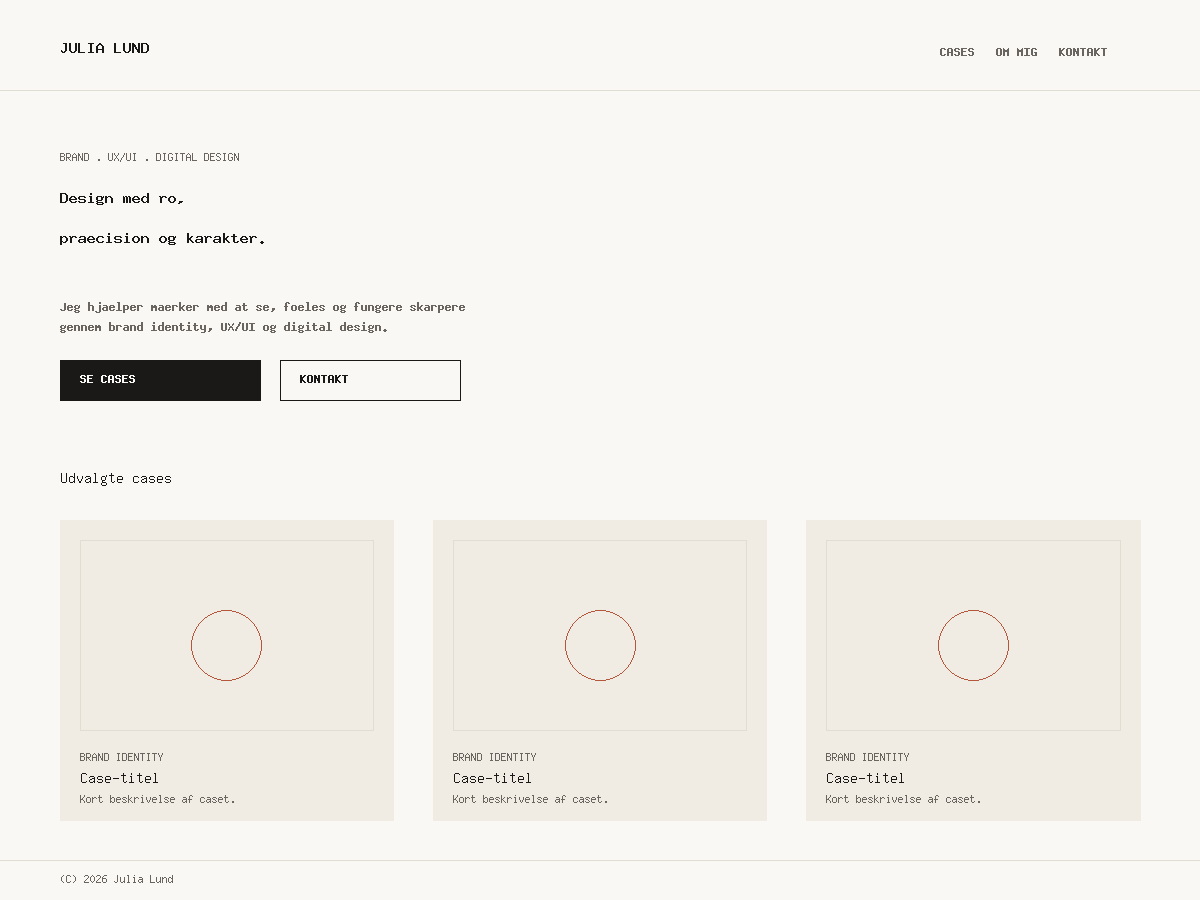
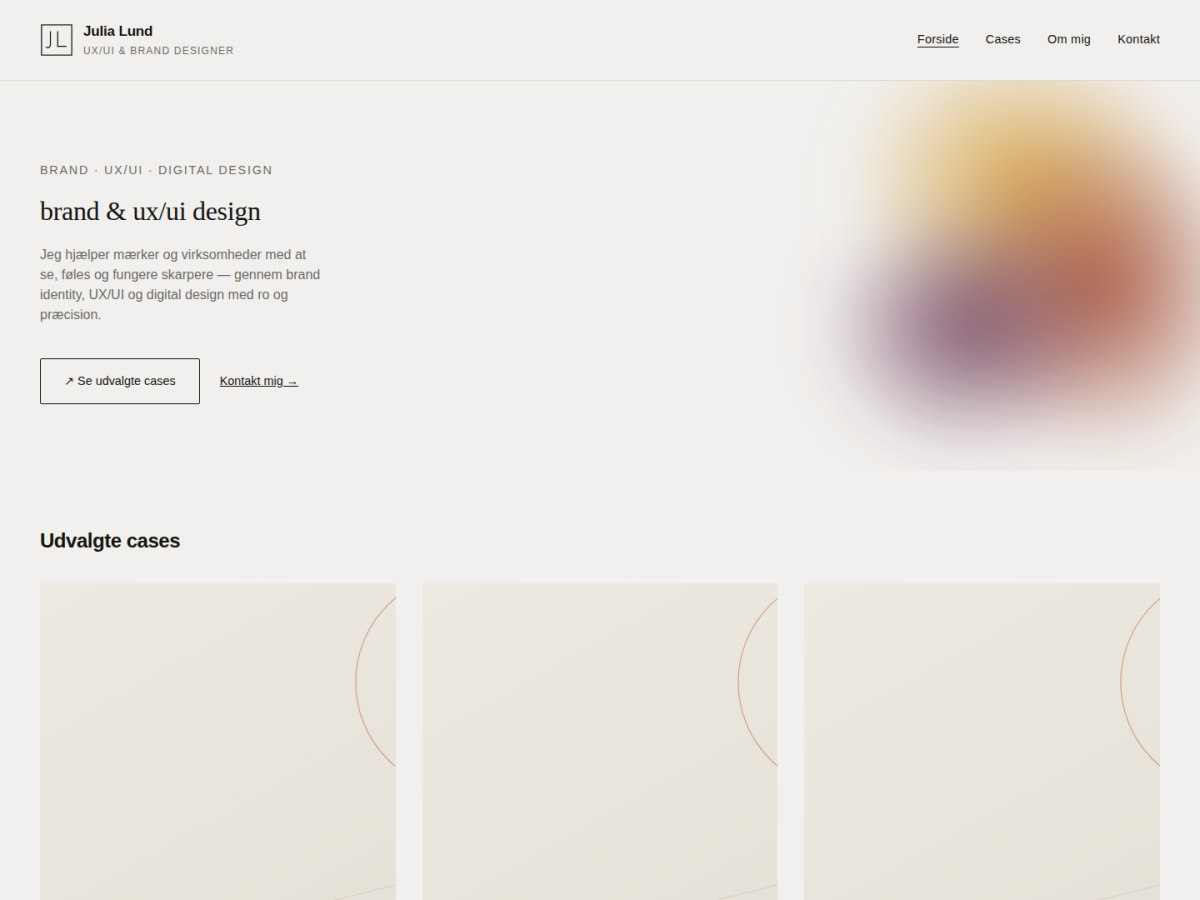
Restyle theme with editorial design inspired by naomicreates.co.za
Adapts the reference site's visual language without copying it directly:

- Neutral grey palette with a single warm accent (clay), plus a
  signature painterly gradient "blob" (gold/clay/plum) used sparingly
  behind the hero headline and about-page portrait
- Editorial serif display font for the hero headline only (lowercase,
  Didot/Bodoni system stack), clean geometric sans everywhere else
- Circular arrow CTA button in the hero, circular portrait crop on the
  About page, pill-shaped category tags on case cards, "Se case ->"
  read-more links, underlined active nav item
- Header now has a site-logo slot (with a suggested geometric JL
  monogram) plus stacked site-title/site-tagline, mirroring the
  reference's logo + name + role layout

diff --git a/wp-content/themes/julia-lund/assets/css/style.css b/wp-content/themes/julia-lund/assets/css/style.css
@@ -45,6 +45,74 @@ textarea:focus-visible,
 	opacity: 0.85;
 }
 
+/* Hero signature graphic: soft gradient blob sitting behind the intro text */
+.hero-visual {
+	position: relative;
+	overflow: hidden;
+}
+
+.hero-blob {
+	position: absolute;
+	top: -12%;
+	right: -6%;
+	width: min(58vw, 780px) !important;
+	max-width: none;
+	margin: 0;
+	z-index: 0;
+	pointer-events: none;
+}
+
+.hero-content {
+	position: relative;
+	z-index: 1;
+}
+
+/* Circular portrait crop, with its own small gradient-blob backdrop */
+.is-style-round-photo img {
+	aspect-ratio: 1 / 1;
+	object-fit: cover;
+	border-radius: 50%;
+}
+
+.portrait-visual {
+	position: relative;
+	display: inline-block;
+}
+
+.portrait-visual .portrait-blob {
+	position: absolute;
+	top: -20%;
+	left: -20%;
+	width: 140% !important;
+	max-width: none;
+	margin: 0;
+	z-index: 0;
+	pointer-events: none;
+}
+
+.portrait-visual .is-style-round-photo {
+	position: relative;
+	z-index: 1;
+	margin: 0;
+}
+
+/* Pill-shaped category tag on case cards and case detail (mirrors an
+   outlined "type" badge instead of a plain text label) */
+.wp-block-post-terms a {
+	display: inline-block;
+	border: 1px solid var(--wp--preset--color--line);
+	border-radius: 999px;
+	padding: 0.3em 0.9em;
+	text-decoration: none !important;
+}
+
+/* Underline the active item in the primary navigation */
+.wp-block-navigation .current-menu-item > a,
+.wp-block-navigation .current-menu-item > .wp-block-navigation-item__content {
+	text-decoration: underline;
+	text-underline-offset: 0.3em;
+}
+
 @media (prefers-reduced-motion: reduce) {
 	.skip-link,
 	.wp-block-post-featured-image a img {

diff --git a/wp-content/themes/julia-lund/parts/header.html b/wp-content/themes/julia-lund/parts/header.html
@@ -4,7 +4,23 @@
 <!-- wp:group {"layout":{"type":"flex","justifyContent":"space-between","flexWrap":"wrap"}} -->
 <div class="wp-block-group">
 
-<!-- wp:site-title {"style":{"typography":{"fontWeight":"400"}}} /-->
+<!-- wp:group {"layout":{"type":"flex","flexWrap":"nowrap","verticalAlignment":"center"}} -->
+<div class="wp-block-group">
+
+<!-- wp:site-logo {"width":40,"shouldSyncIcon":false} /-->
+
+<!-- wp:group {"layout":{"type":"flex","orientation":"vertical","flexWrap":"nowrap"},"style":{"spacing":{"blockGap":"0"}}} -->
+<div class="wp-block-group">
+
+<!-- wp:site-title {"style":{"typography":{"fontWeight":"700"}}} /-->
+
+<!-- wp:site-tagline /-->
+
+</div>
+<!-- /wp:group -->
+
+</div>
+<!-- /wp:group -->
 
 <!-- wp:navigation {"textColor":"ink","overlayMenu":"mobile","layout":{"type":"flex","justifyContent":"right"}} /-->
 

diff --git a/wp-content/themes/julia-lund/templates/archive-case.html b/wp-content/themes/julia-lund/templates/archive-case.html
@@ -24,6 +24,8 @@
 
 <!-- wp:post-excerpt {"excerptLength":18,"textColor":"stone"} /-->
 
+<!-- wp:read-more {"content":"Se case →","style":{"spacing":{"margin":{"top":"var:preset|spacing|20"}}}} /-->
+
 <!-- /wp:post-template -->
 
 <!-- wp:query-pagination {"style":{"spacing":{"margin":{"top":"var:preset|spacing|50"}}},"layout":{"type":"flex","justifyContent":"center"}} -->

diff --git a/wp-content/themes/julia-lund/patterns/page-about-content.php b/wp-content/themes/julia-lund/patterns/page-about-content.php
@@ -6,16 +6,46 @@
  * Description: Fuldt sideindhold til "Om mig" — portræt, længere bio, highlights og værktøjer.
  */
 ?>
-<!-- wp:group {"align":"full","style":{"spacing":{"padding":{"top":"var:preset|spacing|70","bottom":"0","left":"var:preset|spacing|40","right":"var:preset|spacing|40"}}},"layout":{"type":"constrained","contentSize":"42rem"}} -->
+<!-- wp:group {"align":"full","style":{"spacing":{"padding":{"top":"var:preset|spacing|70","bottom":"0","left":"var:preset|spacing|40","right":"var:preset|spacing|40"}}},"layout":{"type":"constrained","contentSize":"80rem"}} -->
 <div class="wp-block-group alignfull" style="padding-top:var(--wp--preset--spacing--70);padding-left:var(--wp--preset--spacing--40);padding-right:var(--wp--preset--spacing--40)">
+
+<!-- wp:columns {"verticalAlignment":"center","style":{"spacing":{"blockGap":{"left":"var:preset|spacing|60"}}}} -->
+<div class="wp-block-columns are-vertically-aligned-center">
+
+<!-- wp:column {"verticalAlignment":"center","width":"58%"} -->
+<div class="wp-block-column is-vertically-aligned-center" style="flex-basis:58%">
 
 <!-- wp:paragraph {"textColor":"stone","style":{"typography":{"fontSize":"var:preset|font-size|small","letterSpacing":"0.12em"}}} -->
 <p class="has-stone-color has-text-color" style="font-size:var(--wp--preset--font-size--small);letter-spacing:0.12em">OM MIG</p>
 <!-- /wp:paragraph -->
 
-<!-- wp:heading {"level":1} -->
-<h1 class="wp-block-heading">Design er ikke kun, hvordan noget ser ud. Det er hvordan det opleves.</h1>
+<!-- wp:heading {"level":1,"style":{"spacing":{"margin":{"top":"var:preset|spacing|20"}}}} -->
+<h1 class="wp-block-heading" style="margin-top:var(--wp--preset--spacing--20)">UX/UI- og brand-designer med baggrund i digital design. Baseret i København.</h1>
 <!-- /wp:heading -->
+
+</div>
+<!-- /wp:column -->
+
+<!-- wp:column {"verticalAlignment":"center","width":"42%"} -->
+<div class="wp-block-column is-vertically-aligned-center" style="flex-basis:42%">
+
+<!-- wp:group {"className":"portrait-visual","layout":{"type":"default"}} -->
+<div class="wp-block-group portrait-visual">
+<!-- wp:image {"className":"portrait-blob","width":"420px","sizeSlug":"full","linkDestination":"none"} -->
+<figure class="wp-block-image portrait-blob" style="width:420px"><img src="<?php echo esc_url( get_theme_file_uri( 'assets/images/hero-blob.svg' ) ); ?>" alt="" role="presentation"/></figure>
+<!-- /wp:image -->
+
+<!-- wp:image {"className":"is-style-round-photo","width":"320px","sizeSlug":"large"} -->
+<figure class="wp-block-image size-large is-style-round-photo" style="width:320px"><img src="<?php echo esc_url( get_theme_file_uri( 'assets/images/placeholder-portrait-circle.svg' ) ); ?>" alt="Portræt af Julia Lund"/></figure>
+<!-- /wp:image -->
+</div>
+<!-- /wp:group -->
+
+</div>
+<!-- /wp:column -->
+
+</div>
+<!-- /wp:columns -->
 
 </div>
 <!-- /wp:group -->
@@ -26,16 +56,16 @@
 <!-- wp:columns {"style":{"spacing":{"blockGap":{"left":"var:preset|spacing|60"}}}} -->
 <div class="wp-block-columns">
 
-<!-- wp:column {"width":"40%"} -->
-<div class="wp-block-column" style="flex-basis:40%">
-<!-- wp:image {"sizeSlug":"large","style":{"border":{"radius":"2px"}}} -->
-<figure class="wp-block-image size-large has-custom-border"><img src="<?php echo esc_url( get_theme_file_uri( 'assets/images/placeholder-portrait-large.svg' ) ); ?>" alt="Portræt af Julia Lund" style="border-radius:2px"/></figure>
-<!-- /wp:image -->
+<!-- wp:column {"width":"20%"} -->
+<div class="wp-block-column" style="flex-basis:20%">
+<!-- wp:paragraph {"textColor":"stone","style":{"typography":{"fontSize":"var:preset|font-size|small","letterSpacing":"0.1em"}}} -->
+<p class="has-stone-color has-text-color" style="font-size:var(--wp--preset--font-size--small);letter-spacing:0.1em">BIO</p>
+<!-- /wp:paragraph -->
 </div>
 <!-- /wp:column -->
 
-<!-- wp:column {"width":"60%"} -->
-<div class="wp-block-column" style="flex-basis:60%">
+<!-- wp:column {"width":"80%"} -->
+<div class="wp-block-column" style="flex-basis:80%">
 
 <!-- wp:paragraph -->
 <p>Jeg er Julia Lund — brand manager, UX/UI-designer og digital designer med base i København. Min baggrund spænder fra klassisk brandstrategi til hands-on interface-design, og jeg trives bedst i krydsfeltet mellem de to: der hvor et stærkt visuelt udtryk mødes med en løsning, der rent faktisk virker.</p>

diff --git a/wp-content/themes/julia-lund/patterns/hero-home.php b/wp-content/themes/julia-lund/patterns/hero-home.php
@@ -3,18 +3,25 @@
  * Title: Hero — Forside
  * Slug: julia-lund/hero-home
  * Categories: julia-lund
- * Description: Stort intro-hero til forsiden med overskrift, kort pitch og to CTA-knapper.
+ * Description: Stort intro-hero med et blødt malerisk gradient-blob som signaturgrafik bag en redaktionel overskrift.
  */
 ?>
-<!-- wp:group {"align":"full","style":{"spacing":{"padding":{"top":"var:preset|spacing|70","bottom":"var:preset|spacing|60","left":"var:preset|spacing|40","right":"var:preset|spacing|40"}}},"layout":{"type":"constrained","contentSize":"46rem"}} -->
-<div class="wp-block-group alignfull" style="padding-top:var(--wp--preset--spacing--70);padding-bottom:var(--wp--preset--spacing--60);padding-left:var(--wp--preset--spacing--40);padding-right:var(--wp--preset--spacing--40)">
+<!-- wp:group {"align":"full","className":"hero-visual","style":{"spacing":{"padding":{"top":"var:preset|spacing|70","bottom":"var:preset|spacing|60","left":"var:preset|spacing|40","right":"var:preset|spacing|40"}}},"layout":{"type":"constrained","contentSize":"46rem"}} -->
+<div class="wp-block-group alignfull hero-visual" style="padding-top:var(--wp--preset--spacing--70);padding-bottom:var(--wp--preset--spacing--60);padding-left:var(--wp--preset--spacing--40);padding-right:var(--wp--preset--spacing--40)">
+
+<!-- wp:image {"className":"hero-blob","width":"780px","sizeSlug":"full","linkDestination":"none"} -->
+<figure class="wp-block-image hero-blob" style="width:780px"><img src="<?php echo esc_url( get_theme_file_uri( 'assets/images/hero-blob.svg' ) ); ?>" alt="" role="presentation"/></figure>
+<!-- /wp:image -->
+
+<!-- wp:group {"className":"hero-content","layout":{"type":"constrained","contentSize":"46rem"}} -->
+<div class="wp-block-group hero-content">
 
 <!-- wp:paragraph {"textColor":"stone","style":{"typography":{"fontSize":"var:preset|font-size|small","letterSpacing":"0.12em"}}} -->
 <p class="has-stone-color has-text-color" style="font-size:var(--wp--preset--font-size--small);letter-spacing:0.12em">BRAND · UX/UI · DIGITAL DESIGN</p>
 <!-- /wp:paragraph -->
 
-<!-- wp:heading {"level":1} -->
-<h1 class="wp-block-heading">Julia Lund</h1>
+<!-- wp:heading {"level":1,"style":{"typography":{"fontFamily":"var(--wp--preset--font-family--display)","fontWeight":"400","fontStyle":"normal","textTransform":"lowercase","letterSpacing":"-0.01em"},"spacing":{"margin":{"top":"var:preset|spacing|20"}}}} -->
+<h1 class="wp-block-heading" style="margin-top:var(--wp--preset--spacing--20);font-family:var(--wp--preset--font-family--display);font-weight:400;letter-spacing:-0.01em;text-transform:lowercase">Brand &amp; UX/UI design</h1>
 <!-- /wp:heading -->
 
 <!-- wp:paragraph {"textColor":"stone","style":{"typography":{"fontSize":"var:preset|font-size|large","lineHeight":"1.5"},"spacing":{"margin":{"top":"var:preset|spacing|30"}}}} -->
@@ -23,15 +30,18 @@
 
 <!-- wp:buttons {"style":{"spacing":{"margin":{"top":"var:preset|spacing|50"}}}} -->
 <div class="wp-block-buttons" style="margin-top:var(--wp--preset--spacing--50)">
-<!-- wp:button -->
-<div class="wp-block-button"><a class="wp-block-button__link wp-element-button" href="#cases">Se udvalgte cases</a></div>
-<!-- /wp:button -->
-
 <!-- wp:button {"className":"is-style-outline"} -->
-<div class="wp-block-button is-style-outline"><a class="wp-block-button__link wp-element-button" href="/kontakt">Kontakt mig</a></div>
+<div class="wp-block-button is-style-outline"><a class="wp-block-button__link wp-element-button" href="#cases">↗ Se udvalgte cases</a></div>
 <!-- /wp:button -->
 </div>
 <!-- /wp:buttons -->
+
+<!-- wp:paragraph {"style":{"spacing":{"margin":{"top":"var:preset|spacing|30"}}}} -->
+<p style="margin-top:var(--wp--preset--spacing--30)"><a href="/kontakt">Kontakt mig →</a></p>
+<!-- /wp:paragraph -->
+
+</div>
+<!-- /wp:group -->
 
 </div>
 <!-- /wp:group -->

diff --git a/wp-content/themes/julia-lund/functions.php b/wp-content/themes/julia-lund/functions.php
@@ -145,6 +145,18 @@ function julia_lund_seed_case_categories() {
 add_action( 'after_switch_theme', 'julia_lund_seed_case_categories' );
 
 /**
+ * Give the site tagline a sensible starting value (shown next to the
+ * site title in the header via the Site Tagline block) instead of
+ * WordPress' generic default.
+ */
+function julia_lund_seed_tagline() {
+	if ( in_array( get_option( 'blogdescription' ), array( '', 'Just another WordPress site' ), true ) ) {
+		update_option( 'blogdescription', __( 'UX/UI & Brand Designer', 'julia-lund' ) );
+	}
+}
+add_action( 'after_switch_theme', 'julia_lund_seed_tagline' );
+
+/**
  * Register block pattern category so all theme patterns are grouped
  * together in the pattern inserter instead of scattered under "Uncategorized".
  */

diff --git a/wp-content/themes/julia-lund/patterns/case-grid.php b/wp-content/themes/julia-lund/patterns/case-grid.php
@@ -44,6 +44,8 @@
 
 <!-- wp:post-excerpt {"excerptLength":18,"textColor":"stone"} /-->
 
+<!-- wp:read-more {"content":"Se case →","style":{"spacing":{"margin":{"top":"var:preset|spacing|20"}}}} /-->
+
 <!-- /wp:post-template -->
 
 <!-- wp:query-pagination {"style":{"spacing":{"margin":{"top":"var:preset|spacing|50"}}},"layout":{"type":"flex","justifyContent":"center"}} -->

diff --git a/wp-content/themes/julia-lund/README.md b/wp-content/themes/julia-lund/README.md
@@ -37,6 +37,13 @@ Når temaet ligger i `wp-content/themes/julia-lund/`:
    layout.
 6. Ret menuen under **Design → Editor → Navigation** (Forside, Cases,
    Om mig, Kontakt).
+7. Upload dit eget logo under **Design → Editor → Styles → sidelogo** (eller
+   via Tilpasning). Er intet logo uploadet, vises kun navn + tagline i
+   headeren — se `assets/images/logo-mark.svg` for et forslag til
+   geometrisk monogram, du kan bruge som udgangspunkt.
+8. Sæt din tagline under **Indstillinger → Generelt → Undertitel** (vises
+   automatisk under navnet i headeren, ligesom "UX/UI & Brand Designer" er
+   sat som standard).
 
 ## Hvad ligger hvor
 
@@ -51,16 +58,37 @@ Når temaet ligger i `wp-content/themes/julia-lund/`:
 
 ## Designvalg (kort)
 
-- **Ingen eksterne skrifttyper** — bruger elegante system-font-stakke
-  (serif til overskrifter, sans til brødtekst). Nul netværkskald, hurtig
-  indlæsning. Vil du bruge en bestemt skrifttype (fx Fraunces + Inter),
-  tilføjes den under `settings.typography.fontFamilies` i `theme.json`
-  med `@font-face`-filer i `assets/fonts/`.
+Designretningen er inspireret af moderne, redaktionelle UX/UI-portfolioer
+(bl.a. et enkelt, rebalanceret gradient-"blob"-motiv mod en neutral,
+grå baggrund) — tilpasset til Julia Lunds eget farve- og typografi-udtryk
+i stedet for kopieret direkte:
+
+- **Signatur-grafik:** ét blødt, malerisk gradient-blob (guld/ler/blomme,
+  `assets/images/hero-blob.svg`) bruges sparsomt bag hero-overskriften og
+  om profilbilledet — stedets eneste farveindslag mod den ellers neutrale,
+  grå/off-white palet. Undgår at blive "for trendy" ved kun at optræde ét
+  eller to steder.
+- **Typografisk kontrast:** Hero-overskriften bruger en redaktionel,
+  small-caps-agtig serif (`Didot`/`Bodoni MT` med system-fallback) i
+  små bogstaver — resten af overskrifterne (Om mig, case-titler,
+  sektioner) er en ren, geometrisk sans-serif. Denne kontrast (én stor
+  serif-linje, resten sans) er hentet fra referencen uden at genbruge dens
+  konkrete skrifttype.
+- **Ingen eksterne skrifttyper** — alt er system-font-stakke. Nul
+  netværkskald, hurtig indlæsning. Vil du bruge en bestemt skrifttype
+  (fx en rigtig Didot/Bodoni-fil eller Fraunces + Inter), tilføjes den
+  under `settings.typography.fontFamilies` i `theme.json` med
+  `@font-face`-filer i `assets/fonts/`.
 - **Ingen plugin-afhængighed.** Cases er en almindelig custom post type —
   ingen Page Builder eller ACF krævet.
 - **Farvepalet:** Papir (baggrund), Blæk (tekst), Sten (sekundær tekst),
-  Sand (sektion-baggrund), Ler (accent). Alle kombinationer er tjekket til
-  mindst WCAG AA-kontrast.
+  Sand (sektion-baggrund), Ler (primær accent — knapper/links), Blomme og
+  Guld (kun brugt i signatur-gradienten). Alle tekst/baggrund-kombinationer
+  er tjekket til mindst WCAG AA-kontrast (4.5:1+).
+- **Cirkulært portræt** på Om mig-siden, kategori-tags som piller (runde
+  outline-badges) på case-kort, og understreget aktivt menupunkt i
+  navigationen — alle tre er små, genkendelige detaljer fra referencen,
+  genskabt med egne farver/proportioner.
 - **Dummybilleder** er lette SVG-placeholders (`assets/images/`) — udskift
   dem blot med rigtige billeder ved at uploade nye billeder i editoren.
 
